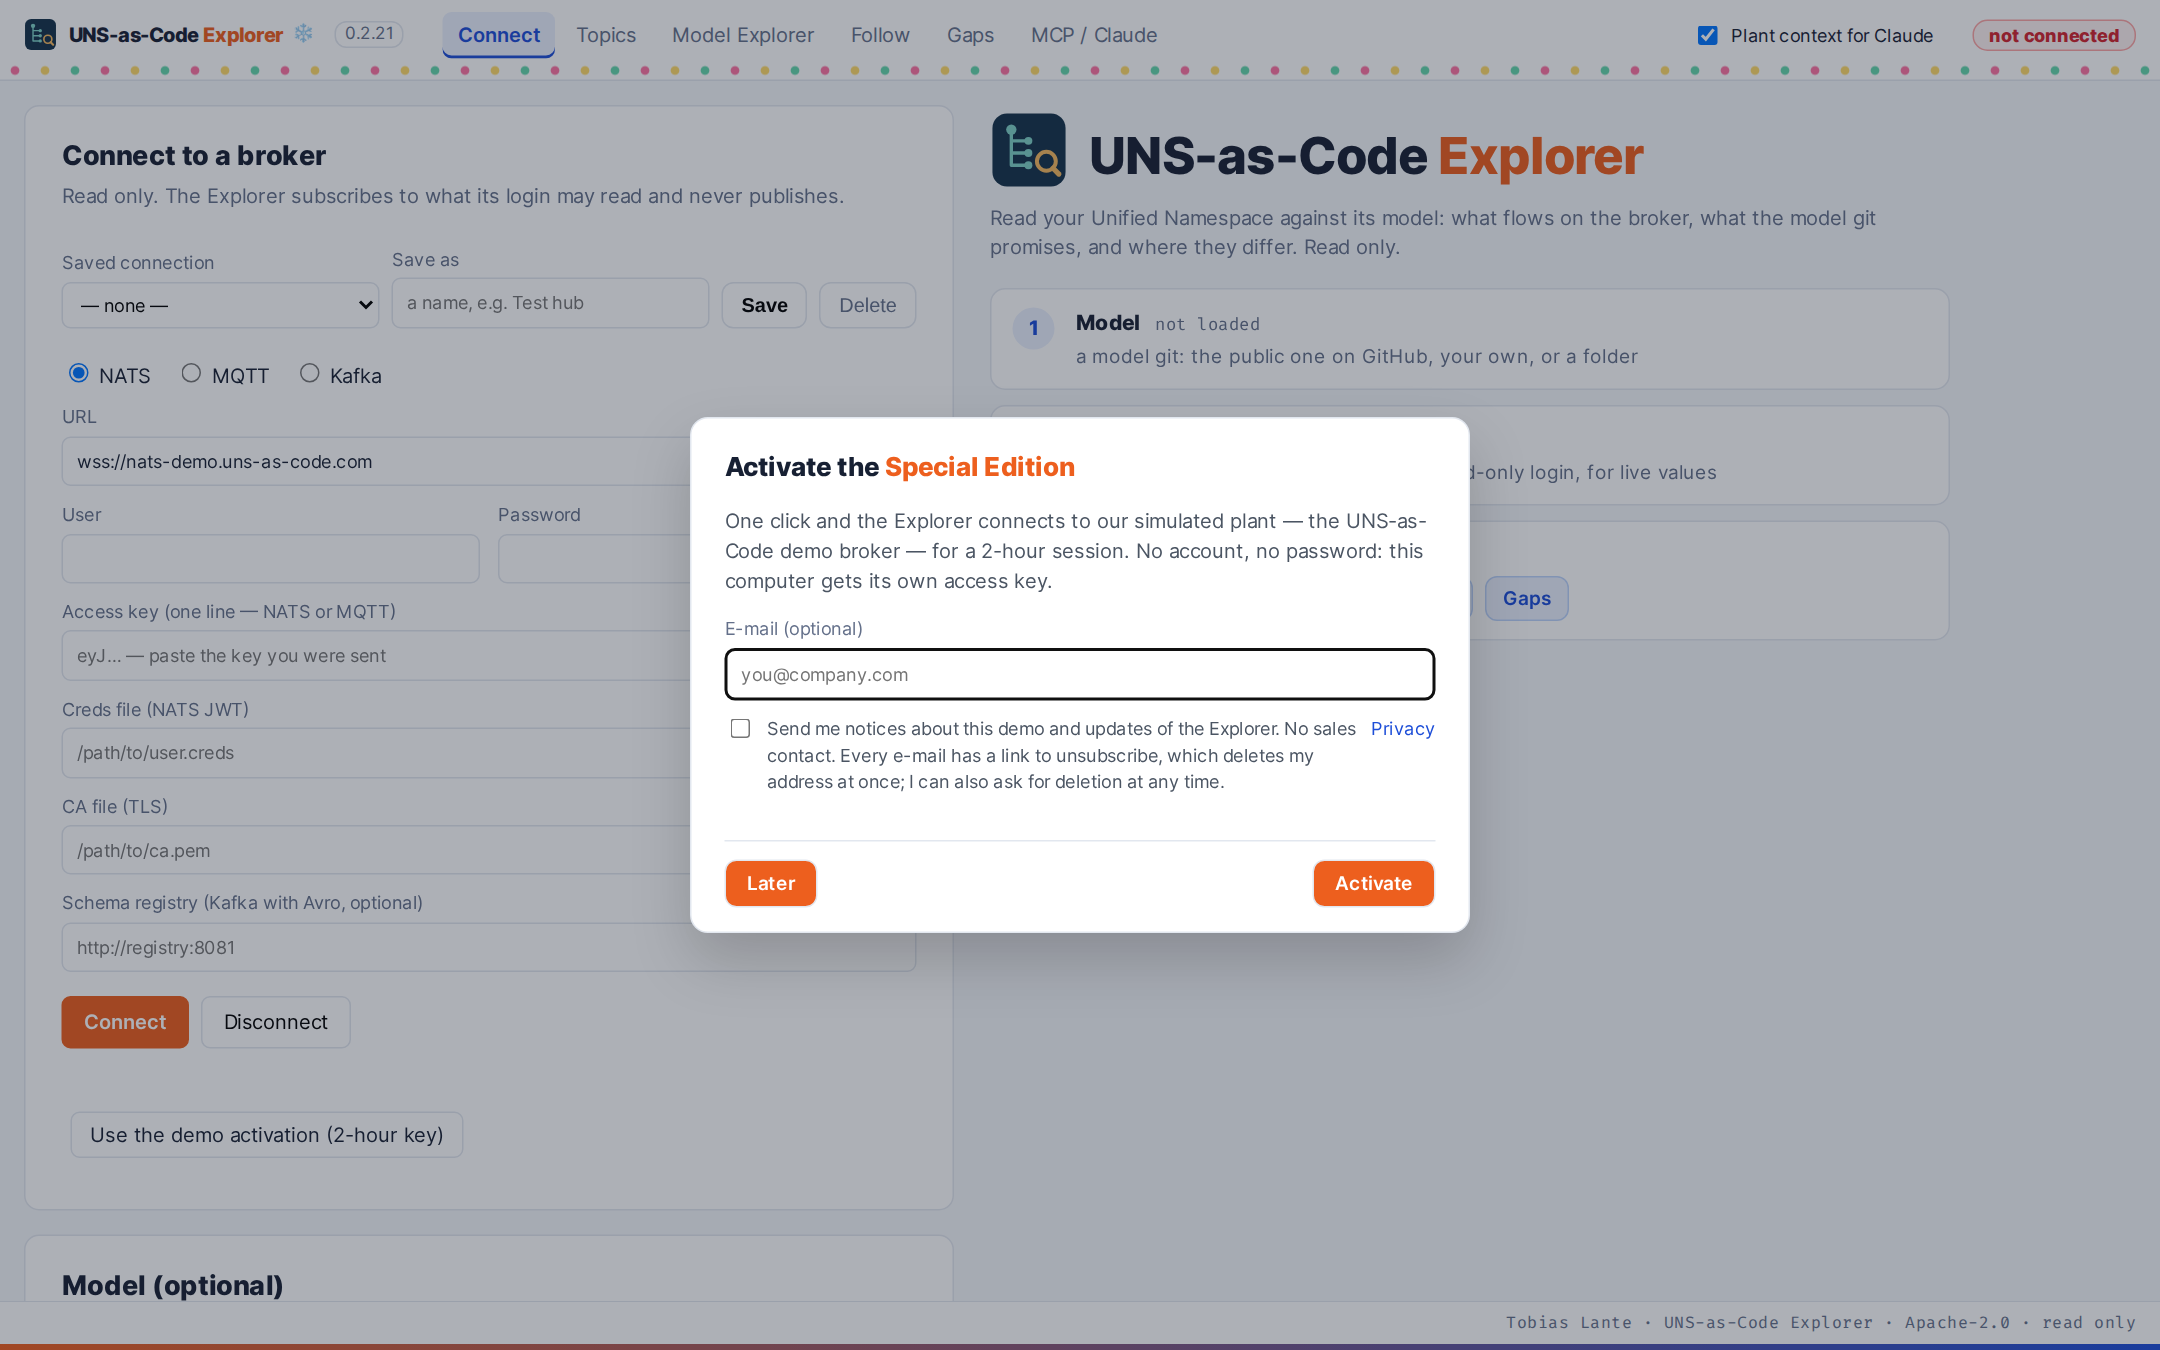
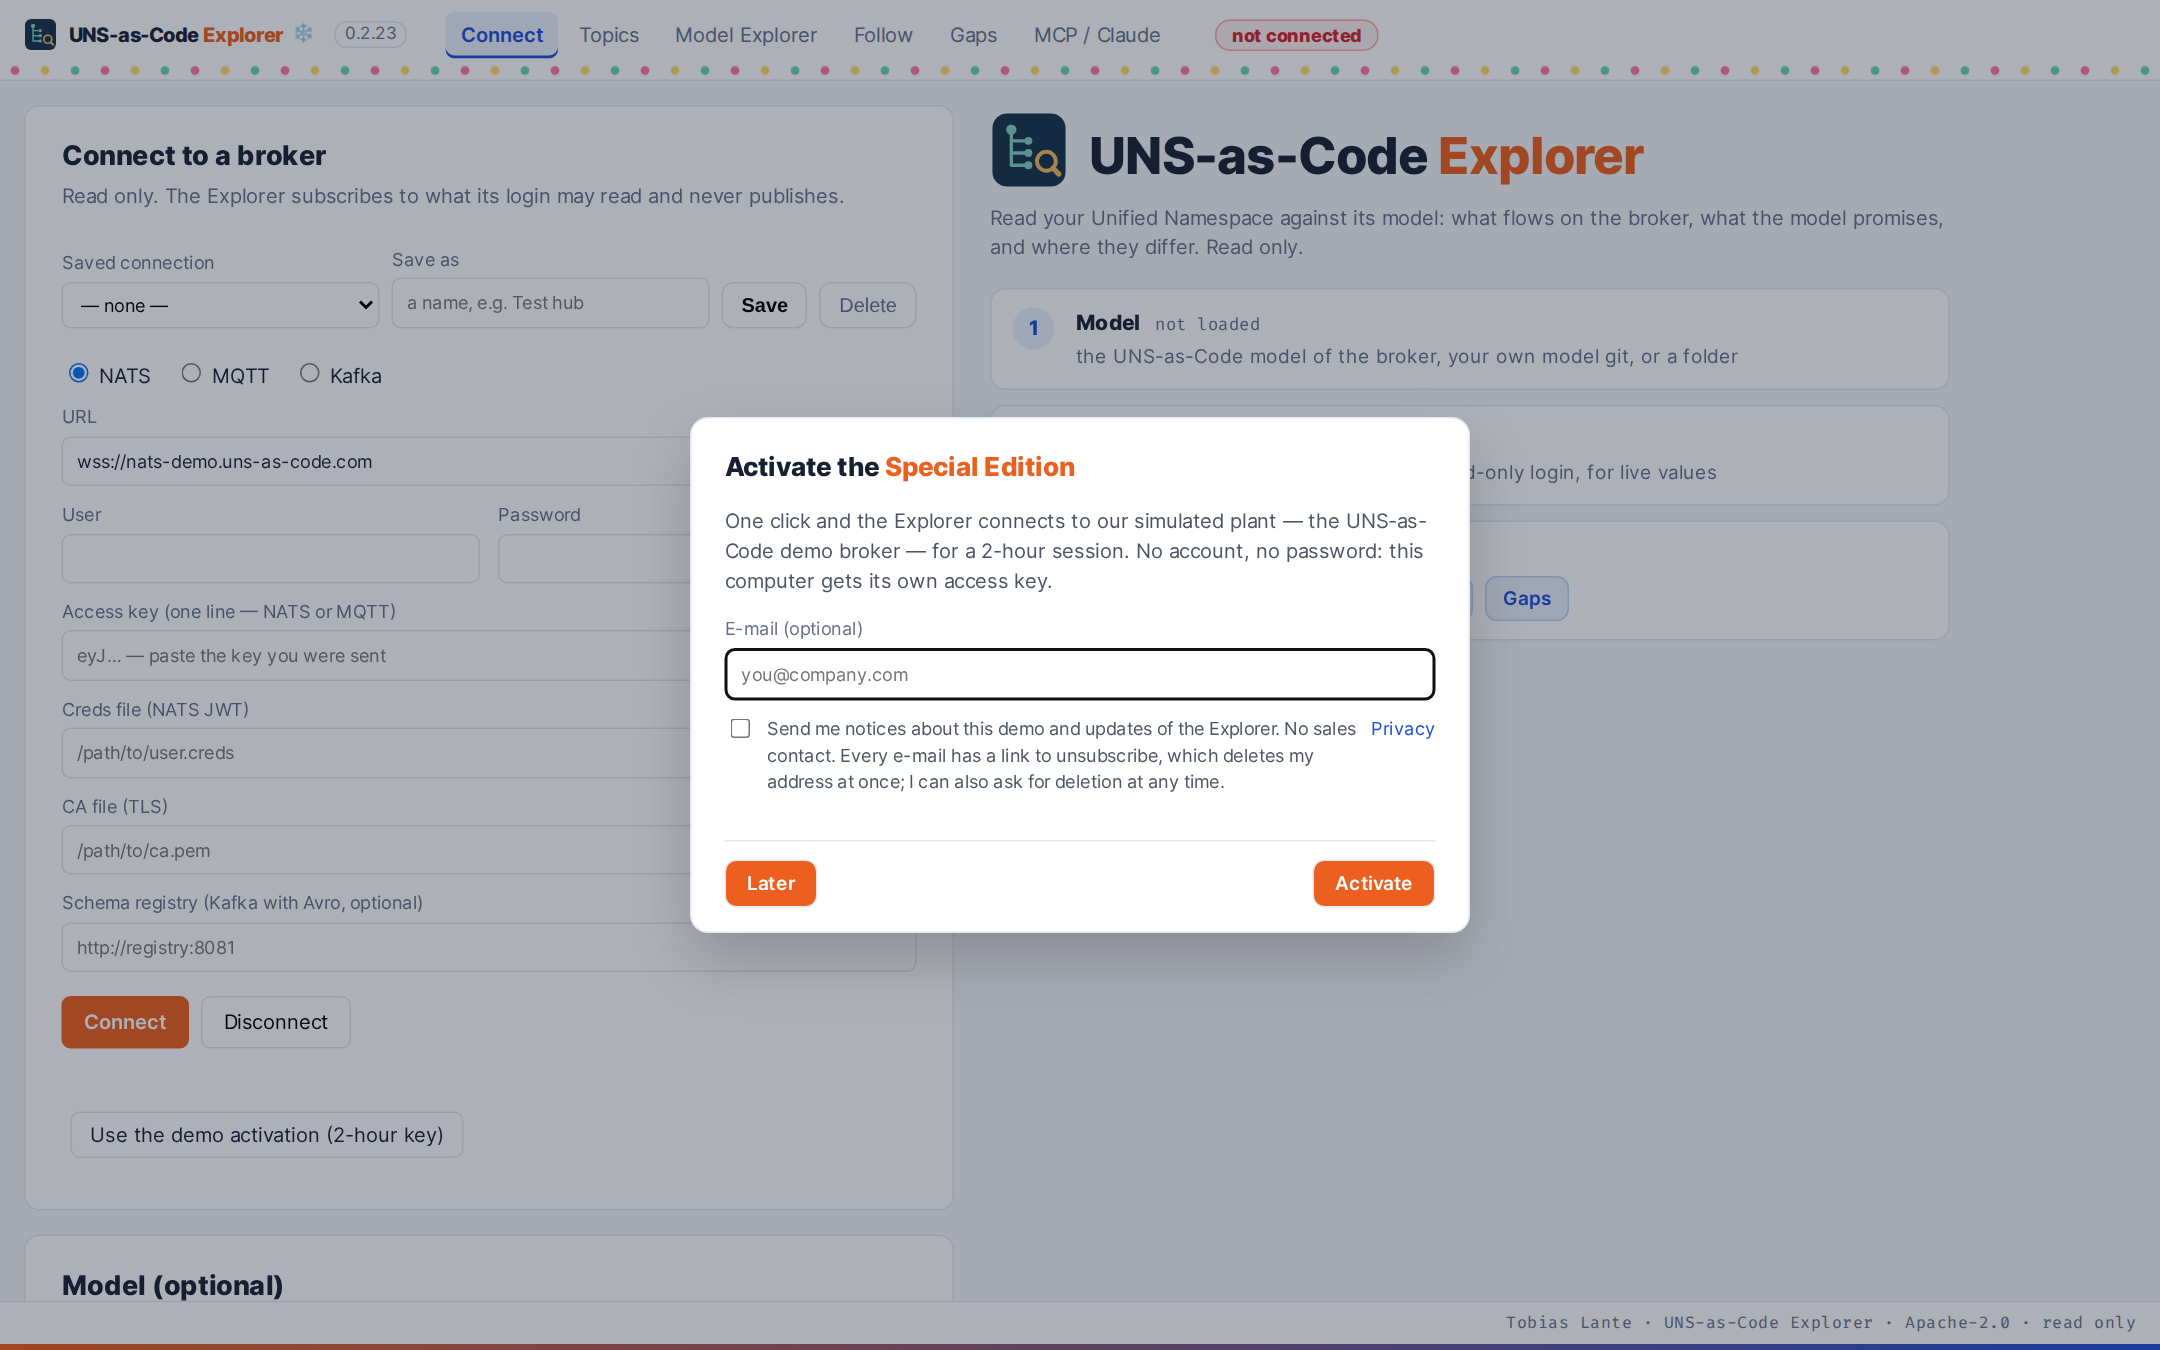
0.2.23-rc3: try it now without login until 31 December 2026; the model comes over the broker; pictures new from rc3; version and platforms corrected

diff --git a/README.md b/README.md
@@ -4,14 +4,23 @@
 
 **See what your factory's data means — and let Claude answer questions about your plant with the right context.**
 
-The Explorer is a free desktop app (Windows, Linux) that connects to the data hub of a factory — a *Unified Namespace* on NATS,
+The Explorer is a free desktop app for Windows that connects to the data hub of a factory — a *Unified Namespace* on NATS,
 MQTT or Kafka — and shows every value live, together with what it means: which machine it belongs to, which order, which limit
 applies. It only reads; it never changes anything in the plant.
 
 **Compare** — the same question to Claude twice: once with the data as Anthropic's Claude for Manufacturing reads it today, once
 with the UNS-as-Code context layer. You see side by side what the context changes, and a fixed rule checks both answers.
 
-> Beta 0.2.23 (release candidate) — free and open source (Apache-2.0). Feedback welcome in [Issues](../../issues).
+### Try it now — no login, no account, until 31 December 2026
+
+Download the zip, unpack, start. One click on **Activate**, and you look into a running factory: injection moulding and CNC
+machines, ERP orders, quality inspections, live machine data — each value explained by the plant's model. With your own Claude account, ask Claude about it and compare
+the answers with and without the plant context. Sessions last 2 hours; the next one starts with one click. No sign-up, no
+password, no sales call. The e-mail field is optional.
+
+**[⬇ Download for Windows (zip, demo)](https://github.com/TobiasLante/uns-as-code-explorer/releases/download/v0.2.23-rc3/UNS-as-Code-Explorer-win-x64.zip)** · [all files](#download) · [step by step](#step-by-step)
+
+> **Version 0.2.23-rc3** (release candidate, 26 November 2026) — Windows 10/11. Free and open source (Apache-2.0). Feedback welcome in [Issues](../../issues).
 
 ![Compare: the same question with and without the plant context](docs/images/07-compare-live.png)
 
@@ -53,11 +62,11 @@ with the UNS-as-Code context layer. You see side by side what the context change
 
 | System | File |
 |---|---|
-| Windows 10/11, demo | [UNS-as-Code-Explorer-win-x64.zip](https://github.com/TobiasLante/uns-as-code-explorer/releases/download/v0.2.23-rc1/UNS-as-Code-Explorer-win-x64.zip) — with the 2-hour demo access to our simulated plant (e-mail optional); no installation, no admin rights |
-| Windows 10/11, setup | [UNS-as-Code-Explorer-win-x64-setup.exe](https://github.com/TobiasLante/uns-as-code-explorer/releases/download/v0.2.23-rc1/UNS-as-Code-Explorer-win-x64-setup.exe) — installs for your user, for your own broker; no demo access |
+| Windows 10/11, demo | [UNS-as-Code-Explorer-win-x64.zip](https://github.com/TobiasLante/uns-as-code-explorer/releases/download/v0.2.23-rc3/UNS-as-Code-Explorer-win-x64.zip) — with the 2-hour demo access to our simulated plant (e-mail optional); no installation, no admin rights |
+| Windows 10/11, setup | [UNS-as-Code-Explorer-win-x64-setup.exe](https://github.com/TobiasLante/uns-as-code-explorer/releases/download/v0.2.23-rc3/UNS-as-Code-Explorer-win-x64-setup.exe) — installs for your user, for your own broker; no demo access |
 | Linux | follows with the next version |
 
-This is a release candidate (0.2.23-rc1): Windows only. Checksums (`.sha256` next to each file) and older versions:
+This is a release candidate (0.2.23-rc3): Windows only. Checksums (`.sha256` next to each file) and older versions:
 [Releases](../../releases).
 
 ---
@@ -103,13 +112,14 @@ Click a line to see its last values, the raw message and what the model says abo
 
 ### 4. Understand the plant
 
-**Model Explorer** shows the plant as the model describes it: site, areas, lines, machines — and for each machine its attributes,
-the rules that watch it, its recipes and settings, and which systems deliver its data.
+**Model Explorer** shows the plant as the model describes it: the ISA-95 equipment hierarchy from the enterprise down to each
+machine, every class with its properties and relationships, the instances of the plant, and which system delivers which value.
+The demo plant's model has 99 classes with 1,263 properties and 524 relationships, and 128 instances.
 
 ![Model Explorer: the plant and one machine](docs/images/03-model-explorer.png)
 
-The model comes from a public repository ([osf-schemas, branch next](https://github.com/TobiasLante/osf-schemas/tree/next)); the
-Explorer opens it by itself at the first start. **Gaps** shows where the model and the live data disagree; **Follow** follows one
+The model comes from the plant's UNS-as-Code over the same broker as the data; the Explorer opens it by itself at the first
+start — no git, no extra access. **Gaps** shows where the model and the live data disagree; **Follow** follows one
 order or lot through the systems.
 
 ### 5. Ask Claude: Compare
@@ -259,7 +269,7 @@ No. It is there to try the Explorer without a broker of your own. Your own broke
 No. It is optional, used only for notices about the demo and new versions, and deleted at once when you unsubscribe.
 
 **Which systems are supported?**
-Windows 10/11 and Linux x64. Brokers: NATS (with JetStream), MQTT, Kafka (with Avro).
+Windows 10/11 (64-bit). Linux follows with the next version. Brokers: NATS (with JetStream), MQTT, Kafka (with Avro).
 
 ---
 

diff --git a/CHANGELOG.md b/CHANGELOG.md
@@ -1,5 +1,11 @@
 # Changelog
 
+## 0.2.23-rc3 — release candidate (2026-11-26)
+- **The model comes over the broker.** The Explorer reads the plant model from UNS-as-Code over the broker it is connected to (UNSaC 0.8.1) — no git, no GitHub access. A model saved by an earlier version opens the same way.
+- **Figures over a period come whole.** A period query asks UNS-as-Code for its longest scan; two days of confirmations come complete, where they stopped after 20 seconds before.
+- **A side that ends early says why** — also when Claude Code was ended from outside; its answer is called cut.
+- The historian export of a machine that stands now runs to now.
+
 ## 0.2.23 — beta (2026-11-24)
 - **Compare, said openly: "Claude for Manufacturing (Export)" against "Claude for Manufacturing + UNS-as-Code".** The same plugin, model and question on both sides; only the way the data reaches Claude differs. The left side gets the data as Claude for Manufacturing reads it today (Anthropic's plugin: the ERP through its connector, queried by the number in the question; the shop-floor systems — MES, QMS, WMS, historian — as an export of the case's period); Claude searches and joins them itself, nothing is pre-searched and nothing comes from the plant model. The right side asks the UNS-as-Code context layer: an ISA-95 work record of everything tied to the order, lot or machine, each tie with the relation that proves it, gaps said as gaps. Under each answer: what that side was given.
 - **An evaluation below both answers.** The core facts of the case come from the work record by a fixed rule — the machine that actually ran (by any of its names), the number of lots and inspection lots with their decisions, good and scrap, and the case's nonconformance reports (NCR) — and each answer is checked for them (✓/✗), plus the IDs it names that exist nowhere. An ID written short ("NCR-AUTO-…T1947") counts; a sentence that denies or only supposes an NCR does not. No AI grades.
